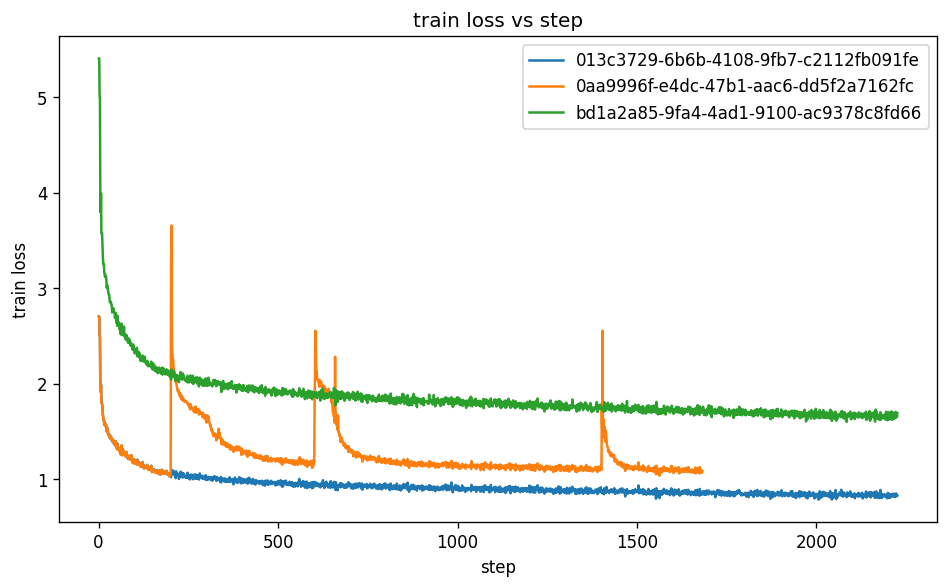
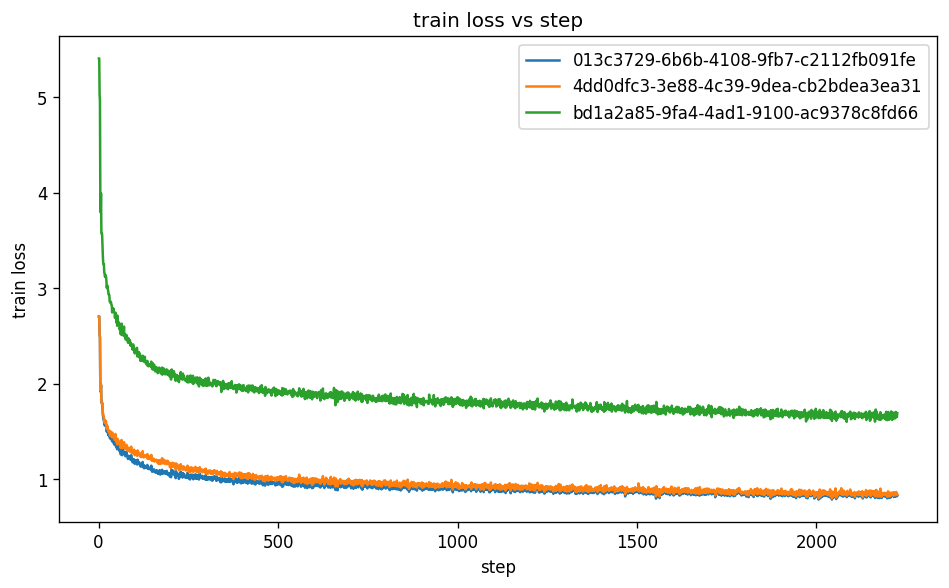
dump

diff --git a/popo.py b/popo.py
@@ -1414,7 +1414,7 @@ def get_lr(step: int):
         lr = w * 1.0 + (1 - w) * 0.1
 
     if step > 400 and lr == 1.0:
-        lr = 1.0
+        lr = 2.0
 
     return lr
 
@@ -1455,8 +1455,8 @@ def step_optimizers(step: int, optimizers, model):
 
     # on even steps, only step Muon params
     # on odd steps, step all params
-    # if step%2==0:
-    if step%8==0:
+    if step%2==0:
+    # if step%8==0:
         optimizers[1].step()
         optimizers[1].zero_grad(set_to_none=True)
     else:
